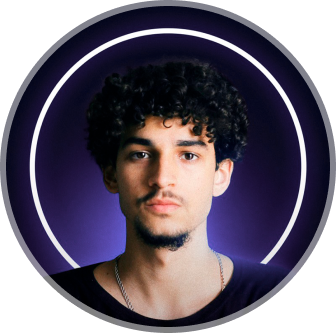
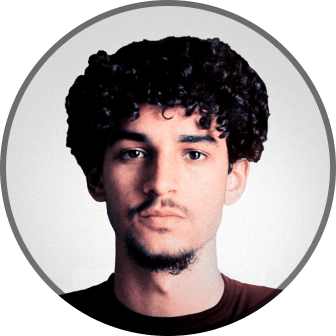
Alteradas imagens de fundo e perfil. Alterado cor estática e de hover para botões no modo light.

diff --git a/style.css b/style.css
@@ -6,7 +6,7 @@
 
 :root{ /* pseudo selector para raiz do html */
     --text-color: white;
-    --bg-url: url(./assets/bg-mobile.jpg);
+    --bg-url: url(./assets/bg-mobile.png);
     --stroke-color: rgba(255, 255, 255, 0.5);
     --surface-color: rgba(255, 255, 255, 0.1);
     --surface-color-hover: rgba(0, 0, 0, 0.05);
@@ -16,10 +16,10 @@
 
 .light{ /* Definindo para elementos pertencentes a classe light */
     --text-color: black;
-    --bg-url: url(./assets/bg-mobile-light.jpg);
+    --bg-url: url(./assets/bg-mobile-light.png);
     --stroke-color: rgba(0, 0, 0, 0.5); 
-    --surface-color: rgba(0, 0, 0, 0.05);
-    --surface-color-hover: rgba(0, 0, 0, 0.02);
+    --surface-color: rgba(255, 255, 255, 0.199);
+    --surface-color-hover: rgba(255, 255, 255, 0.733);
     --highlight-color: rgba(0, 0, 0, 0.1);
     --switch-bg-url: url(./assets/sun.svg);
 }
@@ -182,10 +182,10 @@ footer{
 /* media queries */
 @media(min-width: 700px){      /* Define regras */
     :root{
-        --bg-url: url(./assets/bg-desktop.jpg);
+        --bg-url: url(./assets/bg-desktop.png);
     }
     .light{
-        --bg-url: url(./assets/bg-desktop-light.jpg);
+        --bg-url: url(./assets/bg-desktop-light.png);
     }
 }
 

diff --git a/index.html b/index.html
@@ -61,10 +61,6 @@
         <a href="https://instagram.com/tiagorodriguesdesign" target="_blank">
           <ion-icon name="logo-instagram"></ion-icon>
         </a>
-        
-        <a href="https://youtube.com/" target="_blank">
-          <ion-icon name="logo-youtube"></ion-icon>
-        </a>
 
         <a href="https://linkedin.com/in/tiagorodriguesdesign" target="_blank">
           <ion-icon name="logo-linkedin"></ion-icon>
@@ -74,7 +70,7 @@
       </div>
 
       <footer> <!-- Geralmente utilizado para rodapés -->
-        Projeto de ensino em Front-End pela RocketSeat
+        Projeto de estudo em HTML, CSS e JavaScript
       </footer>
 
 

diff --git a/README.md b/README.md
@@ -38,11 +38,10 @@ O projeto é um agrupador de links, utilizado como cartão de visitas online, co
 
 ## 🔖 Layout
 
-Você pode visualizar o layout original do projeto através [DESSE LINK](https://www.figma.com/file/UO2UT4Zk3DB8xn9TYNMxMe/DevLinks-%E2%80%A2-Projeto-Discover-(Community)?type=design&node-id=1437%3A191&mode=design&t=4pwpp6468UNTU1RC-1). É necessário ter conta no [Figma](https://figma.com) para acessá-lo.
+Você pode visualizar o layout original do projeto através [desse link](<https://www.figma.com/file/UO2UT4Zk3DB8xn9TYNMxMe/DevLinks-%E2%80%A2-Projeto-Discover-(Community)?type=design&node-id=1437%3A191&mode=design&t=4pwpp6468UNTU1RC-1>). É necessário ter conta no [Figma](https://figma.com) para acessá-lo.
 
 ## :memo: Licença
 
 Esse projeto está sob a licença MIT.
 
 ---
-
